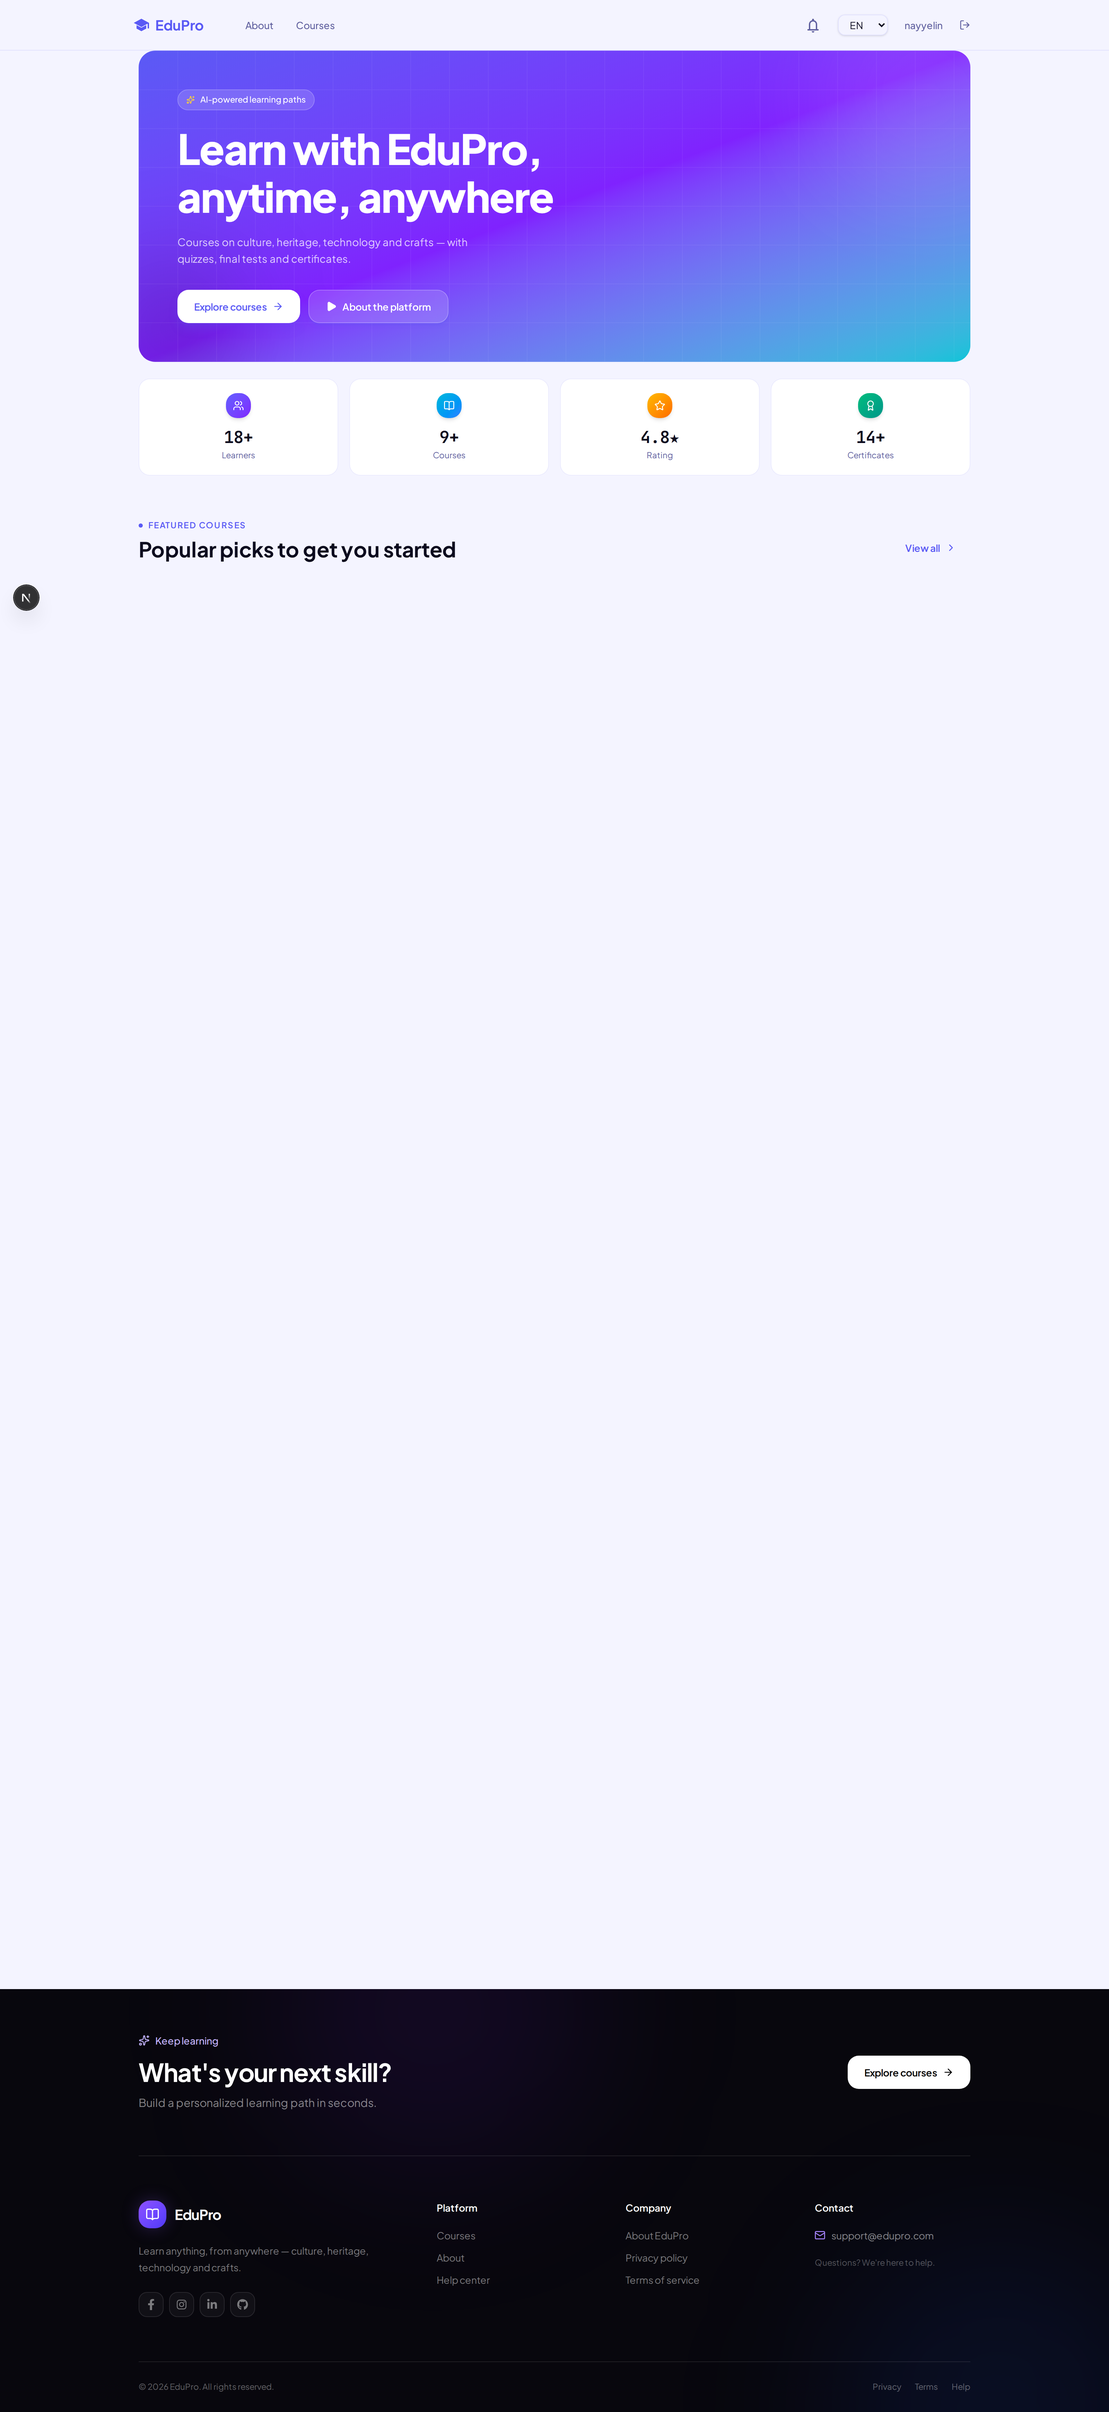
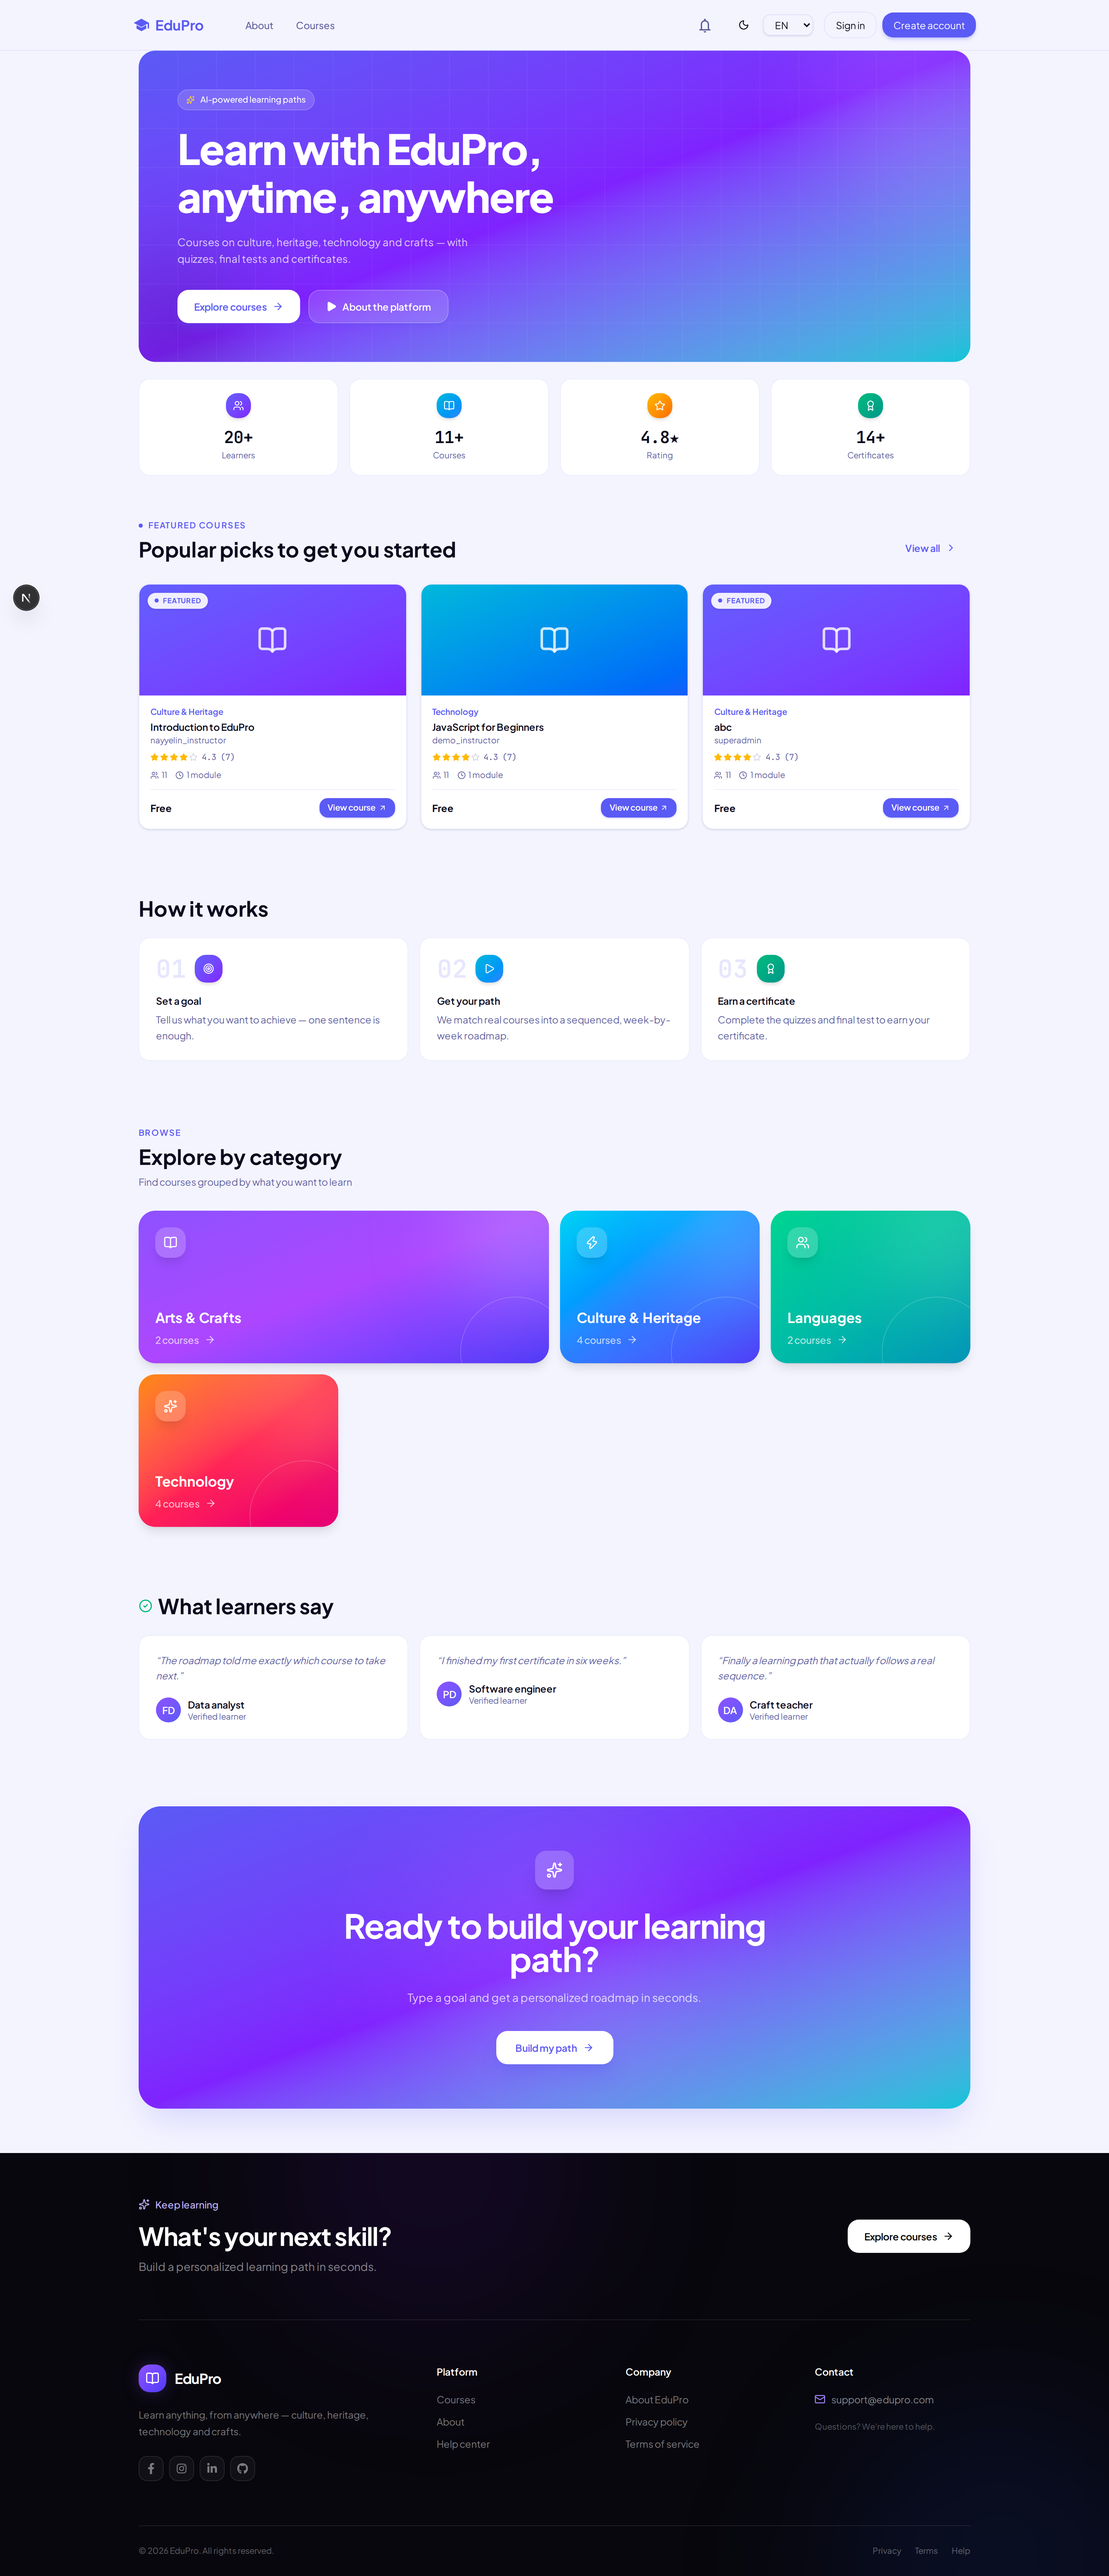
fix: remount home on locale change so animated sections stay visible; regenerate README home screenshot with real backend data

diff --git a/src/components/home/home-client.tsx b/src/components/home/home-client.tsx
@@ -92,7 +92,7 @@ function StatPill({ label, value, icon: Icon, color }: { label: string; value: s
 }
 
 export function HomeClient({ featured, categories, counts }: HomeClientProps) {
-  const { t } = useI18n();
+  const { t, locale } = useI18n();
 
   const stats = [
     { label: t.home.stats.students, value: `${formatCount(counts.students)}+`, icon: Users, color: "from-indigo-500 to-violet-600" },
@@ -114,7 +114,7 @@ export function HomeClient({ featured, categories, counts }: HomeClientProps) {
   ];
 
   return (
-    <main className="min-h-screen bg-background">
+    <main key={locale} className="min-h-screen bg-background">
       <div className="mx-auto max-w-7xl px-5 sm:px-8 lg:px-10">
         {/* HERO */}
         <section className="relative overflow-hidden rounded-3xl bg-gradient-to-br from-primary via-violet-600 to-accent p-8 sm:p-10 lg:p-14">
